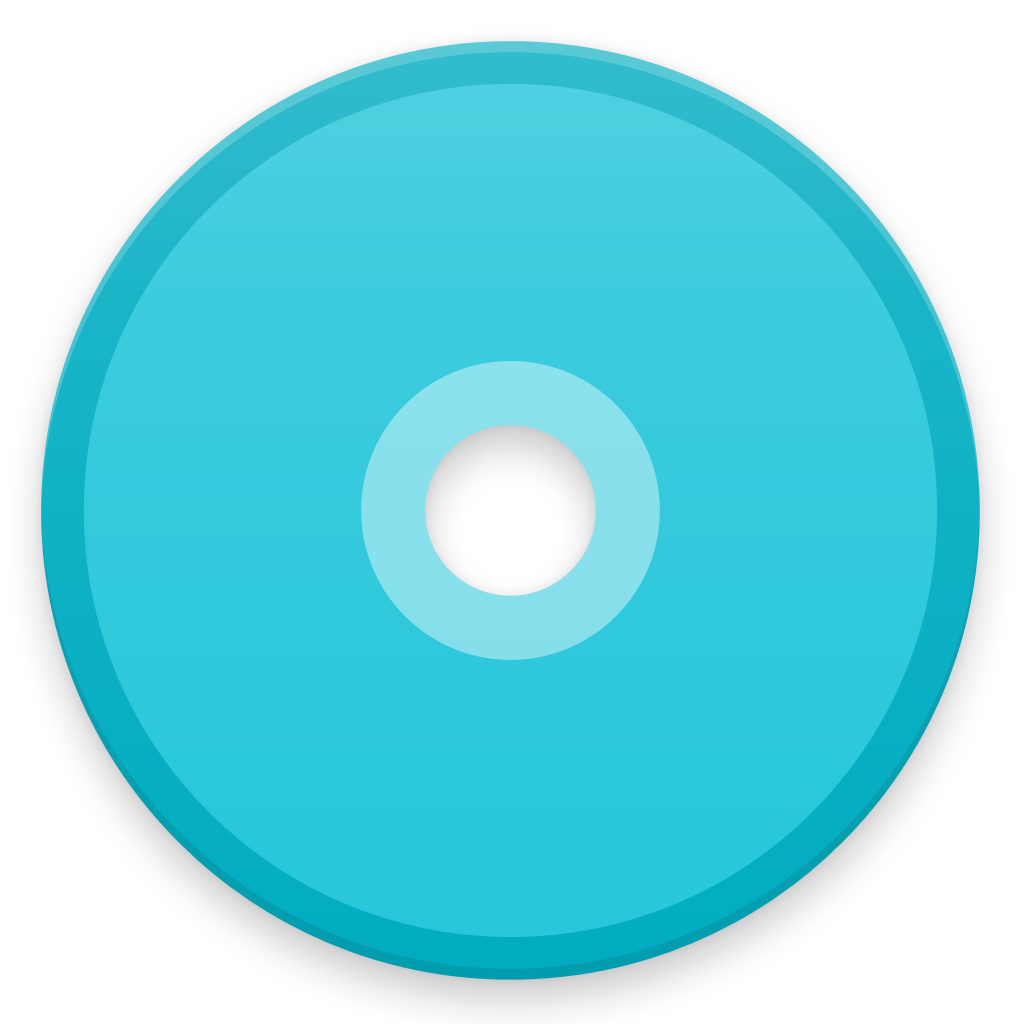
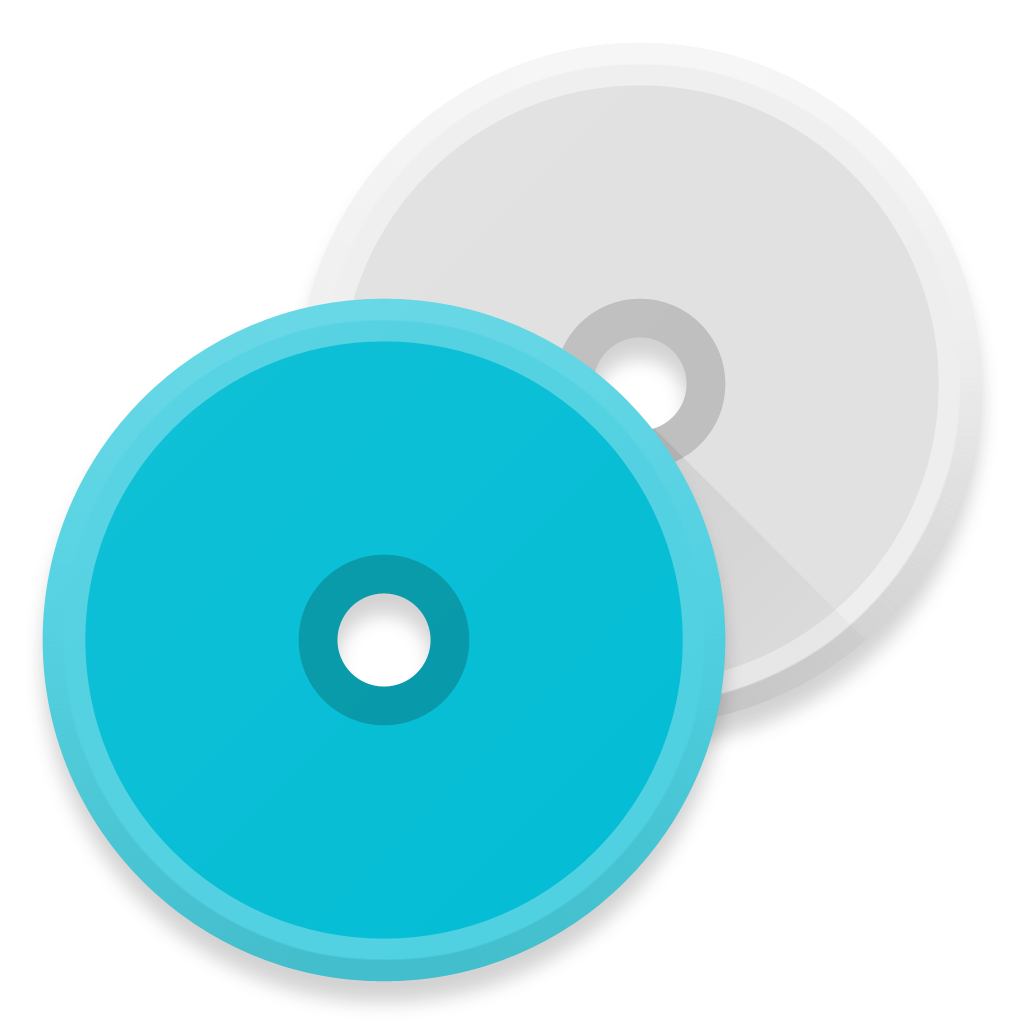
Visual changes
- Updates the icon
- Restyles the header to mock Jockey
- Removes the "screenshot" header until I stop being lazy and insert
screenshots

diff --git a/index.html b/index.html
@@ -7,16 +7,19 @@
     
 </body>    
     <div id="head">
-        <span id="logo">Jockey</span> &nbsp; 
-        <a class="hLink" href="https://github.com/marverenic/Jockey">GitHub</a>
-        <a class="hLink" href="http://sourceforge.net/projects/jockey-player/">SourceForge</a>
+		<div id="headInside">
+			<span id="logo" class="hLeft">Jockey</span> &nbsp; 
+			<a class="hLink hRight" href="https://github.com/marverenic/Jockey">GitHub</a>
+			<a class="hLink hRight" href="http://sourceforge.net/projects/jockey-player/">SourceForge</a>
+		</div>
     </div>
+	<div id="extendedHead"> </div>
     <div style="padding-left:16px; padding-right:16px">
         <div id="content">
             <p id="icon"><img src="jockey_icon.png" width="256px"/></p>
             <p class="center">Jockey is a music player for Android</p>
             <p class="center detail">It's open source, built around simplicity, fast, and it follows Google's Material Design Guidelines</p>
-            <h1>Screenshots</h1>
+            <!--h1>Screenshots</h1-->
             <h1>More Information</h1>
             <p class="center detail">For more information including release notes, and to get in touch with the developer, please visit Jockey's GitHub Page.</p>
             <h1>Download Jockey</h1>

diff --git a/styles.css b/styles.css
@@ -9,6 +9,7 @@ h1 {
     color:#006064;
     font-weight: 400;
     font-size: 32px;
+	padding-left:32px;
 }
 a:link {
 	color:#006064;
@@ -31,12 +32,12 @@ a:hover {
 }
 #content{
     max-width: 1200px;
-    padding: 8px;
+    padding:8px;
     background: #fafafa;
     margin-left: auto;
     margin-right: auto;
     position: relative;
-    top:100px;
+    top:80px;
     -webkit-box-shadow: 0 2px 4px 0 rgba(0,0,0,0.25);
     box-shadow: 0 2px 4px 0 rgba(0,0,0,0.25);
     z-index: 0;
@@ -45,14 +46,24 @@ a:hover {
     background: #00BCD4;
     width: 100%;
     margin: 0px;
-    word-spacing: 32px;
-    padding: 16px;
     color: #006064;
     font-size: 40px;
-    -webkit-box-shadow: 0 2px 8px 0 rgba(0,0,0,0.5);
-    box-shadow: 0 2px 8px 0 rgba(0,0,0,0.5);
     position: fixed;
     z-index: 100;
+}
+#headInside{
+	max-width: 1184px;
+	padding: 16px;
+    margin-left: auto;
+    margin-right: auto;
+}
+#extendedHead{
+	background: #00BCD4;
+    width: 100%;
+	height:400px;
+    margin: 0px;
+    position: fixed;
+    z-index: -1;
 }
 .hLink:link {
 	color:#006064;
@@ -69,6 +80,13 @@ a:hover {
 .hLink:hover {
 	color:#B2EBF2;
 	text-decoration: none;
+}
+.hLeft{
+	float:left;
+}
+.hRight{
+	float:right;
+	padding-left:64px;
 }
 #icon{
     text-align: center;
